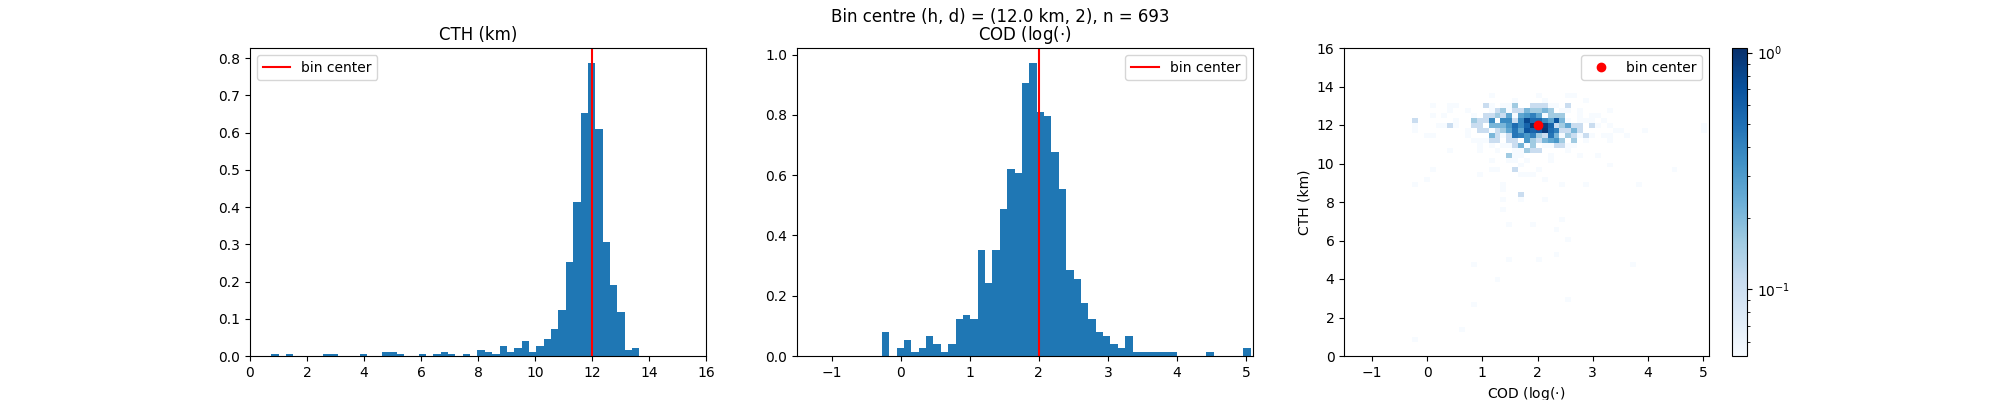
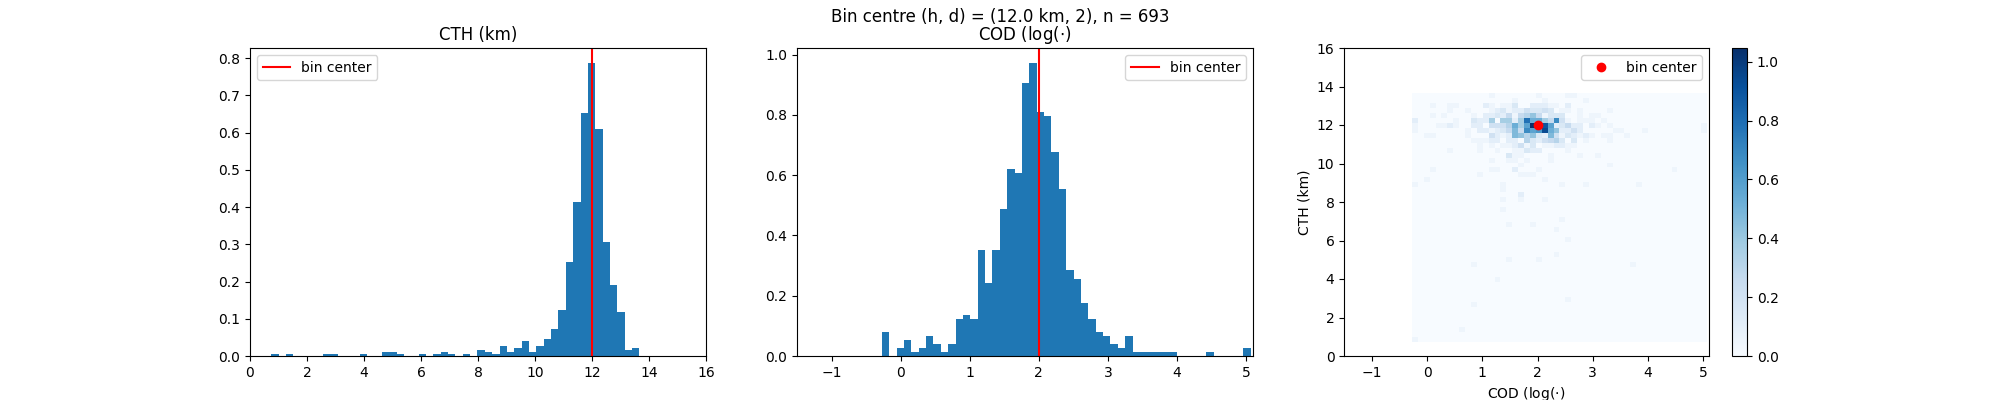
figures

diff --git a/src/model1_plots.py b/src/model1_plots.py
@@ -37,7 +37,7 @@ def plot_distribution_next_cloud(df, title = None, nbins = 50, **kwargs):
     # joint density
     bins = [nbins, nbins]
     h = ax[2].hist2d(df.d_t_next, df.h_t_next*1e-3, bins=bins, 
-                     cmap=plt.cm.Blues, norm=mpl.colors.LogNorm(),
+                     cmap=plt.cm.Blues,
                      **kwargs)
     ax[2].set_xlabel('COD (log($\cdot$)')
     ax[2].set_ylabel('CTH (km)')
